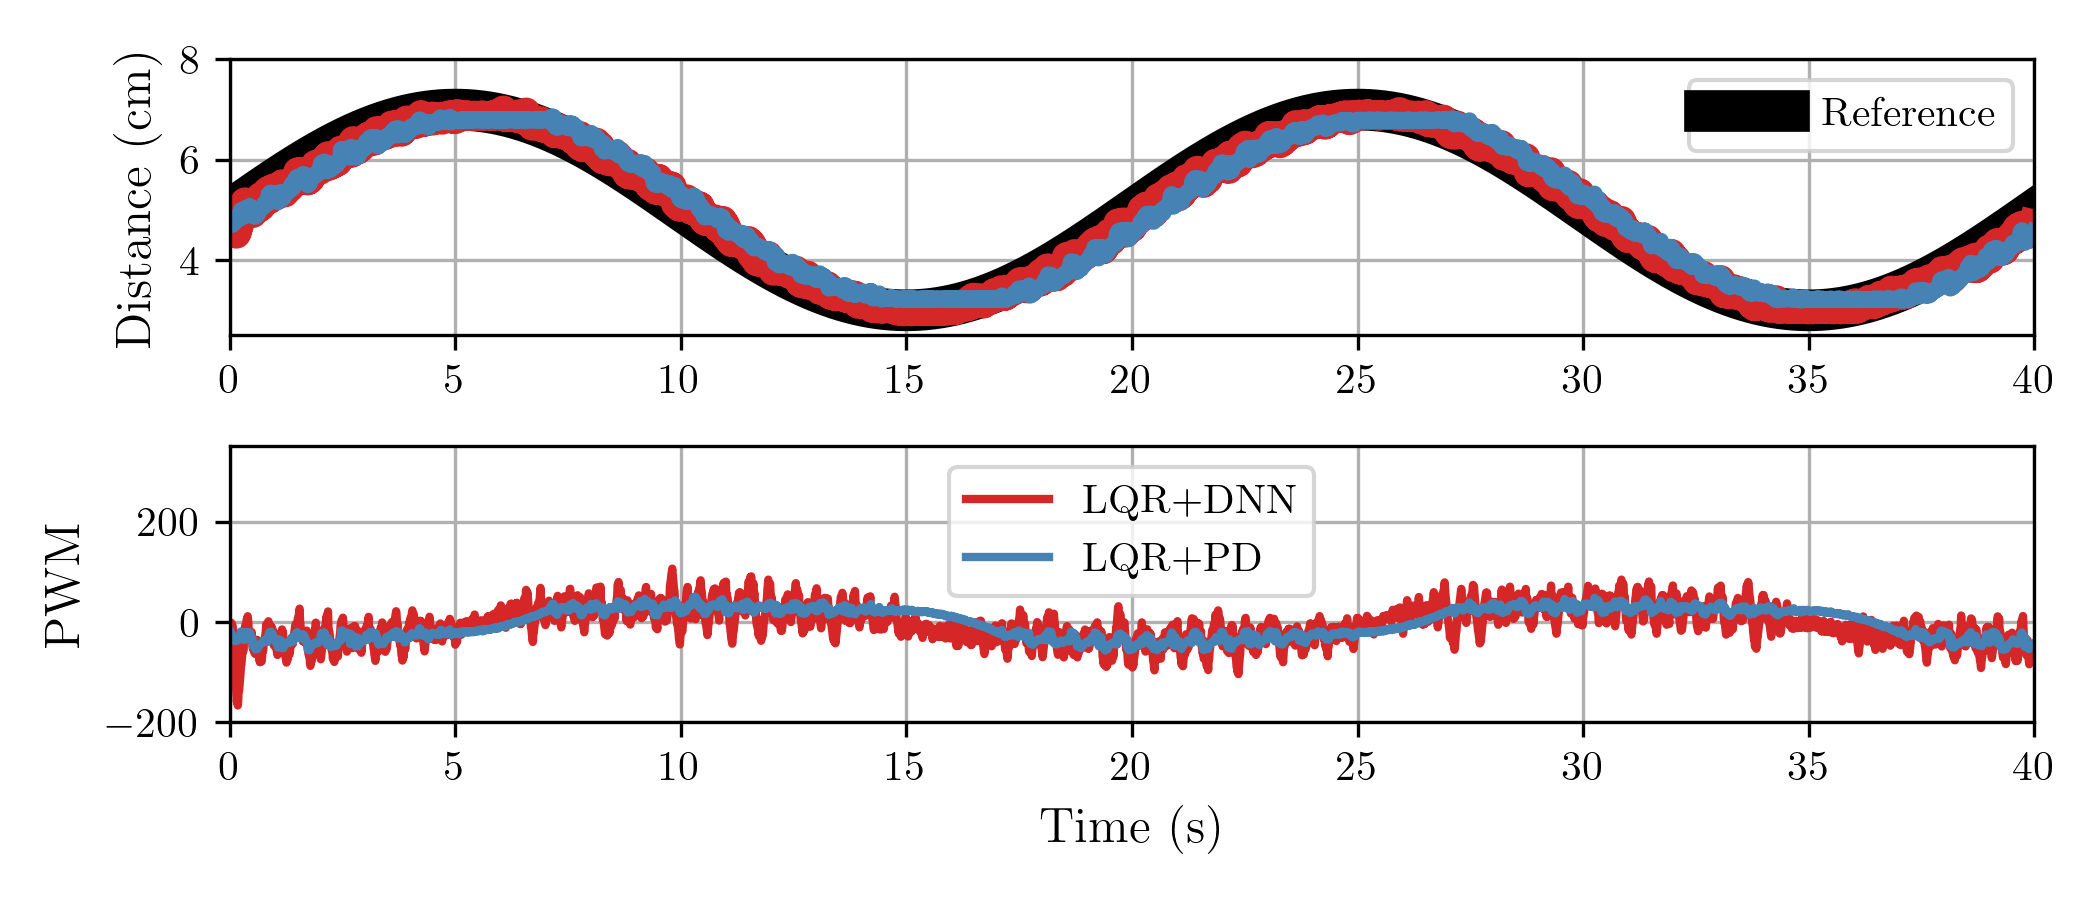
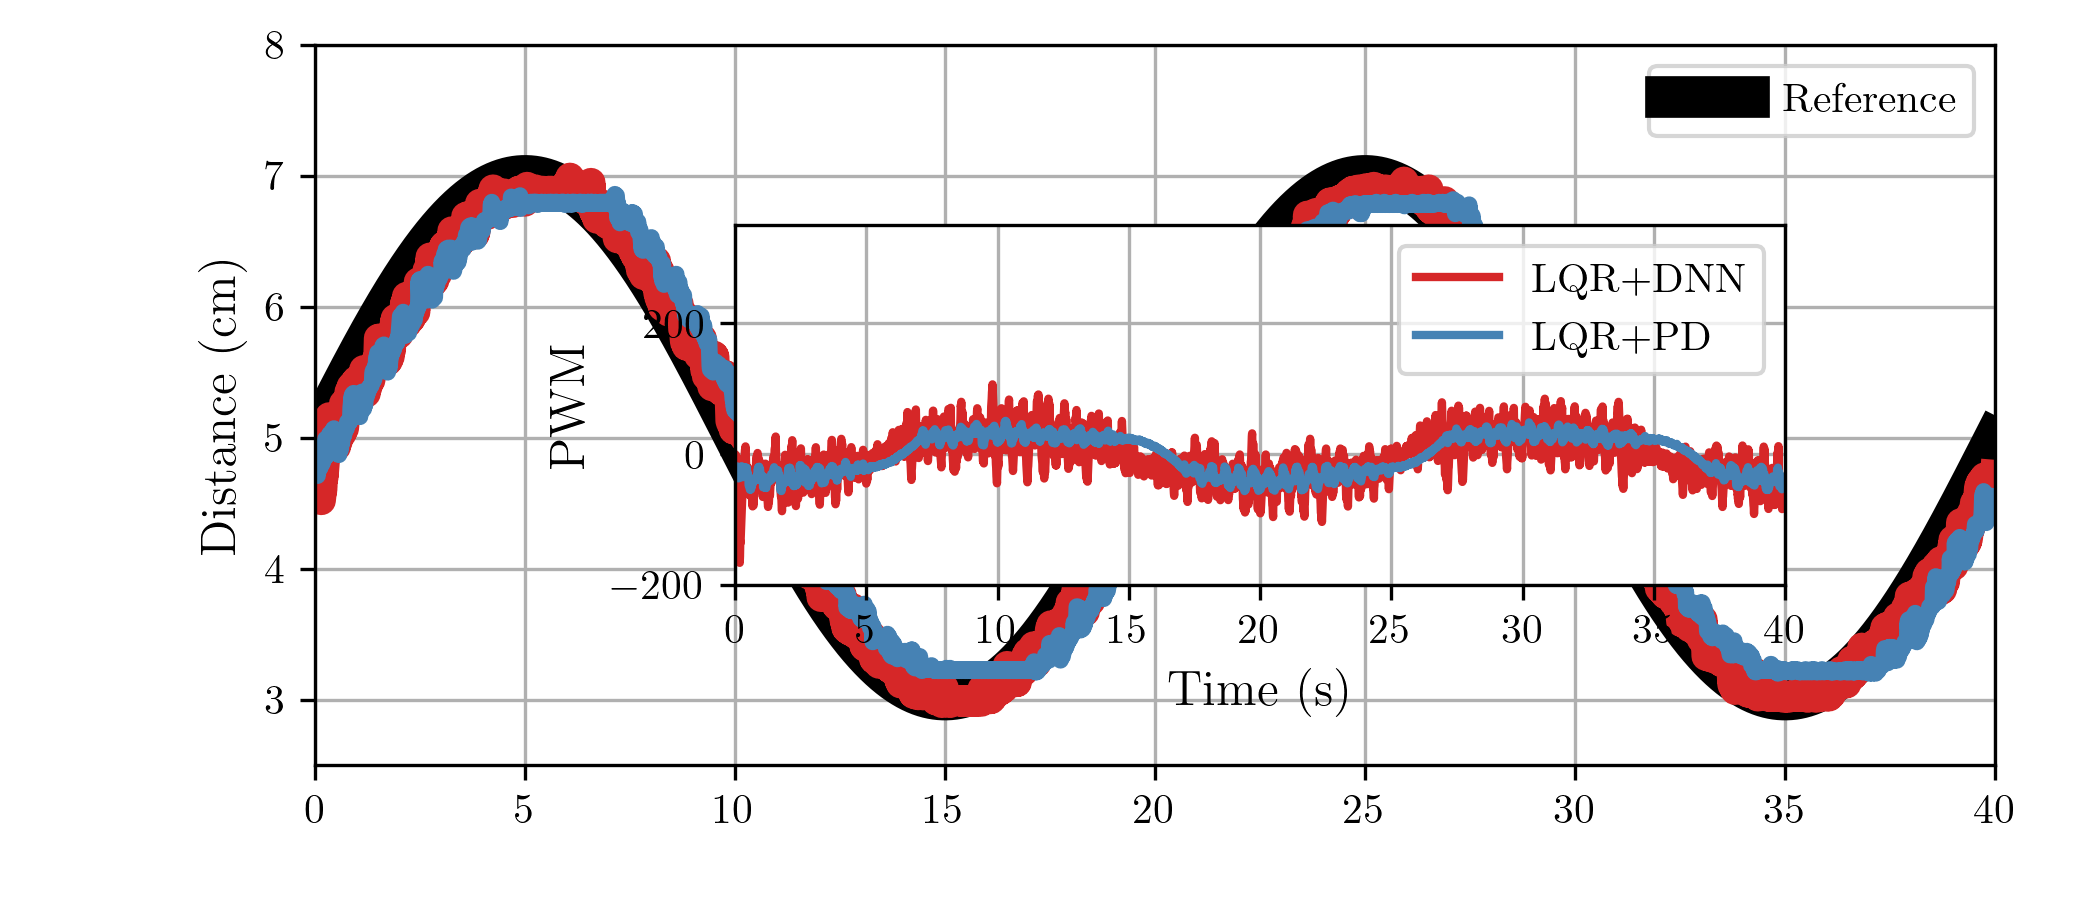
New plot

diff --git a/plotingResults.py b/plotingResults.py
@@ -17,59 +17,103 @@ rcParams.update({'font.family': 'Times New Roman',
 
 
 for i in range(6):
-    fig,ax = plt.subplots(2,1, dpi=300)
-
-    fig.set_figheight(3)
-    fig.set_figwidth(7)
-
     system = 'System '+str(i+1)
     reference = 'Reference '+str(i+1)
-    control = 'Control '+str(i+1)
+    file = './Tracking'+str(i+1)+'.png'
 
-    file = './Actuator'+str(i+1)+'.png'
+    plt.figure(figsize=(4,4),dpi=300)
 
-    ax[0].plot(tiempo,lqrControl[reference], label = 'Reference',linewidth=10, color = 'black')
-    ax[0].plot(tiempo, dnnControl[system], linewidth=7, color = 'tab:red')
-    ax[0].plot(tiempo,lqrControl[system], linewidth=4, color = 'steelblue')
+    plt.axes([0.15, 0.15, 0.8, 0.8])
+
+    ax = plt.gca()
+    ax.plot(tiempo,lqrControl[reference],linewidth=10, color = 'black')
+    ax.plot(tiempo, dnnControl[system], linewidth=7, color = 'tab:red')
+    ax.plot(tiempo,lqrControl[system], linewidth=4, color = 'steelblue')
     
-    ax[0].set_ylabel(r'Distance (cm)',size=12)
-    ax[0].set_xlim(0,40)
-    ax[0].set_ylim(2.5,8)
-    ax[0].grid(True)
-    ax[0].legend(fontsize=10)
+    ax.set_ylabel(r'Distance (cm)',size=12)
+    ax.set_xlabel(r'Time (s)',size=12)
+    ax.set_xlim(0,40)
+    ax.set_ylim(2.5,15)
+    ax.grid(True)
+    plt.axes([0.3, 0.55, 0.6, 0.35])
 
-    ax[1].plot(tiempo,dnnControl[control], label = 'LQR+DNN', linewidth=2, color = 'tab:red')
-    ax[1].plot(tiempo,lqrControl[control], label = 'LQR+PD', linewidth=2, color = 'steelblue')
+    ax = plt.gca()
+    
+    ax.plot(tiempo,lqrControl[reference], label = 'Reference',linewidth=3, color = 'black')
+    ax.plot(tiempo, dnnControl[system], label = 'LQR+DNN', linewidth=3, color = 'tab:red')
+    ax.plot(tiempo,lqrControl[system], label = 'LQR+PD', linewidth=3, color = 'steelblue')
+    
+    ax.set_xlim(24,28)
+    ax.set_ylim(6,7.1)
+    ax.grid(True)
+    ax.legend(fontsize=10)
 
-    ax[1].set_ylabel(r'PWM',size=12)
-    ax[1].set_xlim(0,40)
-    ax[1].set_ylim(-200,350)
-    ax[1].grid(True)
-    ax[1].legend()
-
-    ax[1].set_xlabel(r'Time (s)',size=12)
-
-    plt.tight_layout()
-    fig.savefig(file)
+    # plt.tight_layout()
+    plt.savefig(file)
 
 
-fig,ax = plt.subplots(1,1)
+for i in range(6):
+    control = 'Control '+str(i+1)
+    file = './Control'+str(i+1)+'.png'
 
-fig.set_figheight(3)
-fig.set_figwidth(7)
+    plt.figure(figsize=(4,4),dpi=300)
+
+    plt.axes([0.2, 0.15, 0.75, 0.8])
+
+    ax = plt.gca()
+    ax.plot(tiempo,dnnControl[control], label = 'LQR+DNN', linewidth=2, color = 'tab:red')
+    ax.plot(tiempo,lqrControl[control], label = 'LQR+PD', linewidth=2, color = 'steelblue')
+
+    ax.set_ylabel(r'PWM',size=12)
+    ax.set_xlim(0,40)
+    ax.set_ylim(-150,500)
+    ax.grid(True)
+    ax.set_xlabel(r'Time (s)',size=12)
+
+
+    plt.axes([0.35, 0.55, 0.5, 0.35])
+
+    ax = plt.gca()
+    ax.plot(tiempo,dnnControl[control], label = 'LQR+DNN', linewidth=2, color = 'tab:red')
+    ax.plot(tiempo,lqrControl[control], label = 'LQR+PD', linewidth=2, color = 'steelblue')
+
+    ax.set_xlim(24,28)
+    ax.set_ylim(-150,100)
+    ax.grid(True)
+    ax.legend()
+
+    plt.savefig(file)
+
+
+
+plt.figure(figsize=(4,4),dpi=300)
+
+plt.axes([0.2, 0.15, 0.75, 0.8])
+
+ax = plt.gca()
 
 ax.plot(tiempo,lqrControl['LQR Integral value function'], label = 'LQR+PD', 
         linewidth=5,linestyle='-', color = 'steelblue')
 ax.plot(tiempo, dnnControl['LQR Integral value function'], label = 'LQR+DNN',
-         linewidth=5,linestyle='-', color = 'tab:red',alpha=0.7)
-ax.set_ylabel(r'Functional $J_{t}$',size=12)
+         linewidth=5,linestyle='-', color = 'tab:red')
+ax.set_ylabel(r'$J_{t}(t_{0},\Delta_{0};u_{op})$',size=12)
+ax.set_xlabel(r'Time (s)')
 ax.set_xlim(0,40)
-# ax.set_ylim(2.5,8)
+ax.set_ylim(0,3.5e7)
+ax.grid(True)
+
+plt.axes([0.35, 0.55, 0.5, 0.35])
+
+ax = plt.gca()
+
+ax.plot(tiempo,lqrControl['LQR Integral value function'], label = 'LQR+PD', 
+        linewidth=5,linestyle='-', color = 'steelblue')
+ax.plot(tiempo, dnnControl['LQR Integral value function'], label = 'LQR+DNN',
+         linewidth=5,linestyle='-', color = 'tab:red')
+ax.set_xlim(36,40)
+ax.set_ylim(1.45e7,1.7e7)
 ax.grid(True)
 ax.legend(fontsize=10)
 
 
-plt.tight_layout()
-
-
-fig.savefig('./functional.png')
+plt.savefig('./functional.png')

diff --git a/integrationExamples.py b/integrationExamples.py
@@ -2,69 +2,84 @@ import numpy as np
 import matplotlib.pyplot as plt
 from controlClasses.algorithms import ValueDNN
 from controlClasses.functions import DoPri45Step
+from controlClasses.constants import*
+from matplotlib import rcParams
+rcParams.update({'font.family': 'Times New Roman',
+                 'font.size':10,
+                 'text.usetex':True})
 
-
-ADNN = np.zeros((2,2))
-ADNN[:1,1:] = np.eye(1)
-ADNN[1:,:1] = np.eye(1)*2
-ADNN[1:,1:] = -np.eye(1)*1
-
-BDNN = np.zeros((2,1))
-BDNN[1:,:] = np.eye(1)
-
-P0 =  np.zeros((2,2))
-P0[0,0] = 0
-P0[0,1] = 0
-P0[1,0] = 0
-P0[1,1] = 0
-
-
-QDNN = np.zeros((2,2))
-QDNN[:1,:1] = np.eye(1)*2
-QDNN[1:,1:] = np.eye(1)*1
-
-RDNN = np.eye(1)*0.5
-
-steps = 1000
-t = np.linspace(0,15,steps)
-Pint = []
+steps = 4000
+t = np.linspace(0,40,steps)
+Pint = np.zeros((steps,144))
 time = []
 
 def riccati(t,p):
     # p = p.reshape((2,2))
-    pa = p@ADNN
-    ap = ADNN.T@p
-    pb = p@BDNN
-    q = QDNN
-    rInv = np.linalg.inv(RDNN)
-    bp = BDNN.T@p
+    pa = p@ALQR3
+    ap = ALQR3.T@p
+    pb = p@BLQR3
+    q = QLQR3
+    rInv = np.linalg.inv(RLQR3)
+    bp = BLQR3.T@p
     return -1*(-pa-ap-q + pb@rInv@bp)
     
 
-p11 = []
-p21 = []
-p12 = []
-p22 = []
-
-
+Pint[0,:] = PLQR3.flatten()
 for i in range(steps-1):
     h = t[i+1]-t[i]
-    v4, v5 = DoPri45Step(riccati,t[i],P0,h)
-    newP = P0 + h*v5
+    v4, v5 = DoPri45Step(riccati,t[i],PLQR3,h)
+    newP = PLQR3 + h*v5
     
-    p11.append(newP[0][0])
-    p21.append(newP[1][0])
-    p12.append(newP[0][1])
-    p22.append(newP[1][1])
-    P0 = newP
-
-plt.title('Riccati Differential equation')
-plt.ylabel('P dynamics')
-plt.xlabel('Time (s)')
-plt.plot(t[:-1],p11)
-plt.plot(t[:-1],p21)
-plt.plot(t[:-1],p12)
-plt.plot(t[:-1],p22)
+    
+    # p11.append(newP[0][0])
+    # p21.append(newP[1][0])
+    # p12.append(newP[0][1])
+    # p22.append(newP[1][1])
+    PLQR3 = newP
+    Pint[i+1,:] = PLQR3.flatten()
 
 
-plt.show()
+print(PLQR3)
+
+plt.figure(figsize=(4,4),dpi=300)
+
+plt.axes([0.15, 0.15, 0.8, 0.8])
+
+ax = plt.gca()
+
+
+ax.plot(t,Pint[:,0], label = 'LQR+PD', 
+        linewidth=5,linestyle='-',color='steelblue')
+ax.plot(t,Pint[:,6], label = 'LQR+PD', 
+        linewidth=5,linestyle='-',color='tab:red')
+ax.plot(t,Pint[:,78], label = 'LQR+PD', 
+        linewidth=5,linestyle='-',color='seagreen')
+# ax.plot(time, dnnControl['LQR Integral value function'], label = 'LQR+DNN',
+#          linewidth=5,linestyle='-', color = 'tab:red')
+# ax.set_xlim(36,40)
+# ax.set_ylim(1.45e7,1.7e7)
+ax.set_ylabel(r'Values from $P_{t}$',size=12)
+ax.set_xlabel(r'Time (s)',size=12)
+ax.grid(True)
+# ax.legend(fontsize=10)
+
+plt.axes([0.35, 0.35, 0.5, 0.55])
+
+ax = plt.gca()
+
+
+ax.plot(t,Pint[:,0], label = r'$P_{i,i}$', 
+        linewidth=5,linestyle='-',color='steelblue')
+ax.plot(t,Pint[:,6], label = r'$P_{i,j}=P_{j,i}$', 
+        linewidth=5,linestyle='-',color='tab:red')
+ax.plot(t,Pint[:,78], label = r'$P_{j,j}$', 
+        linewidth=5,linestyle='-',color='seagreen')
+# ax.plot(time, dnnControl['LQR Integral value function'], label = 'LQR+DNN',
+#          linewidth=5,linestyle='-', color = 'tab:red')
+ax.set_xlim(0,1)
+# ax.set_ylim(1.45e7,1.7e7)
+ax.grid(True)
+ax.legend(fontsize=10)
+
+
+plt.savefig('./Riccati.png')
